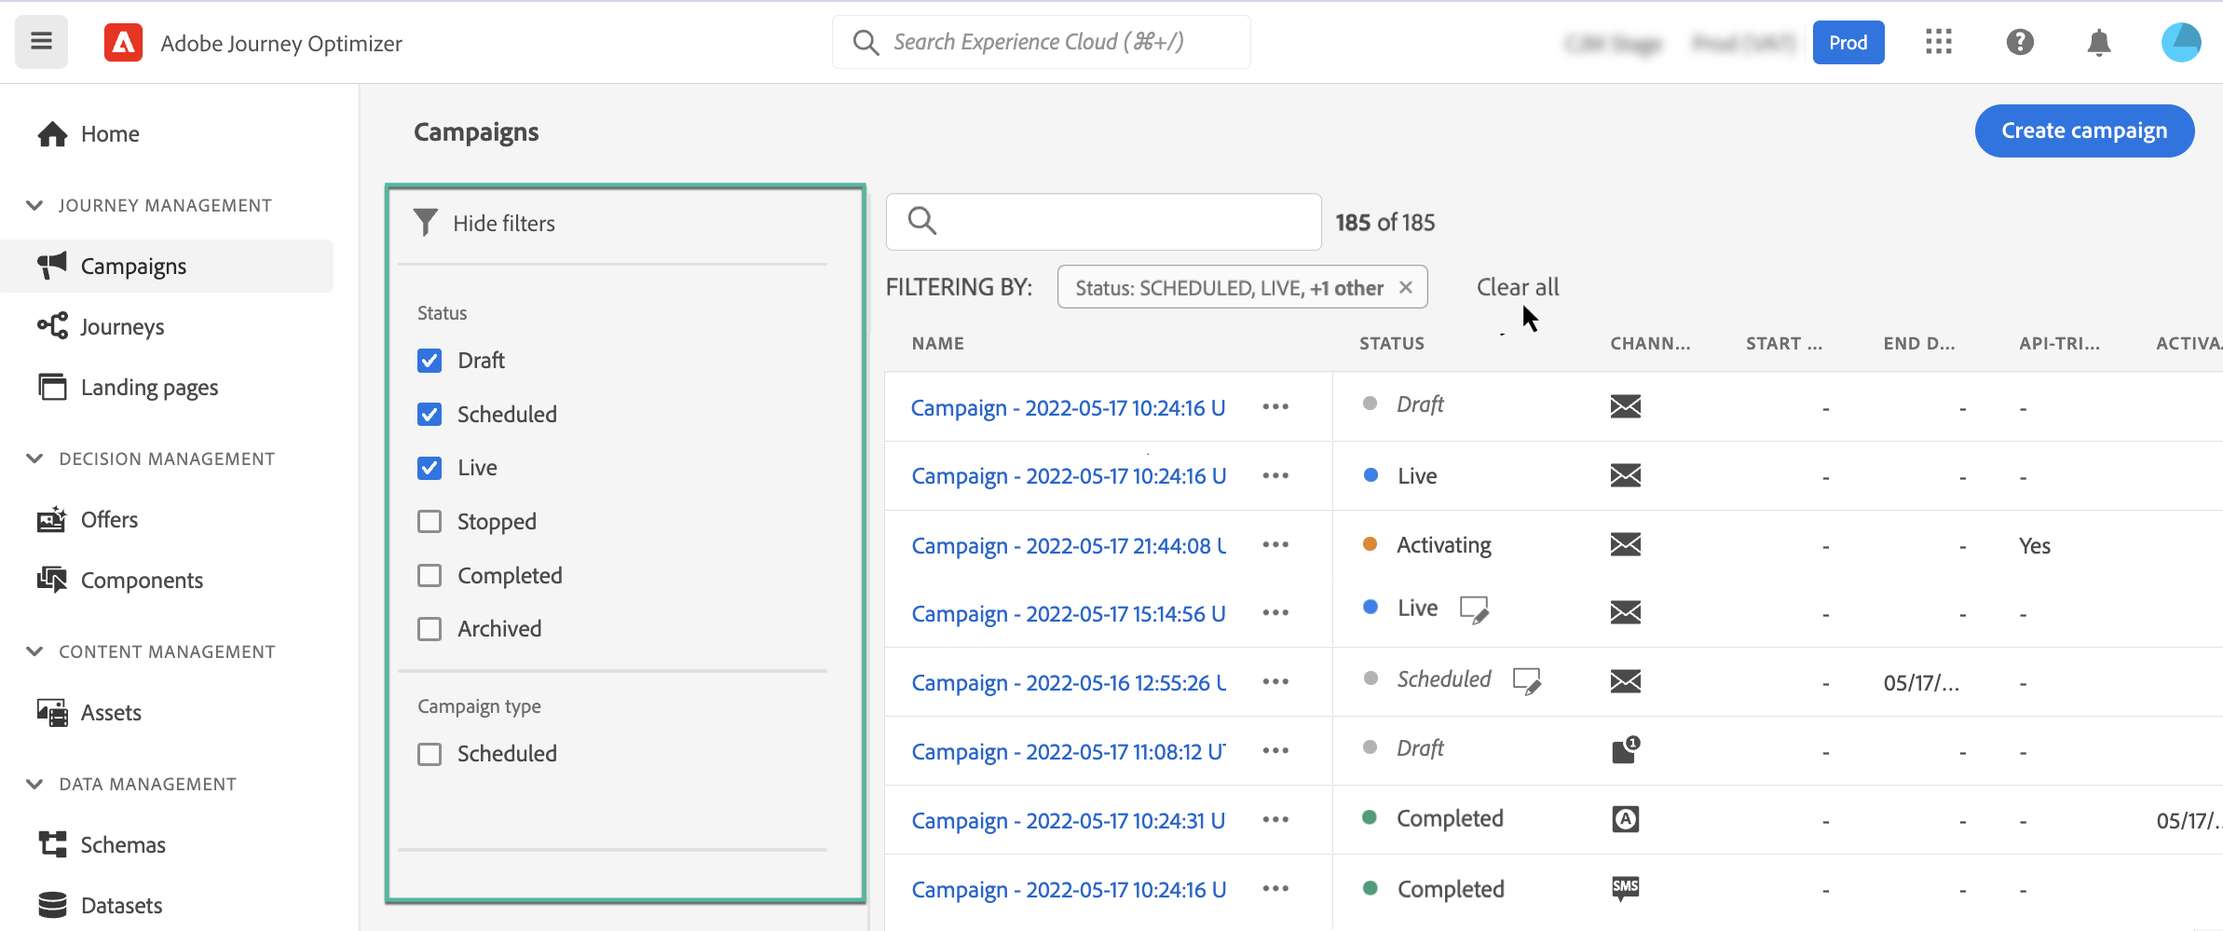
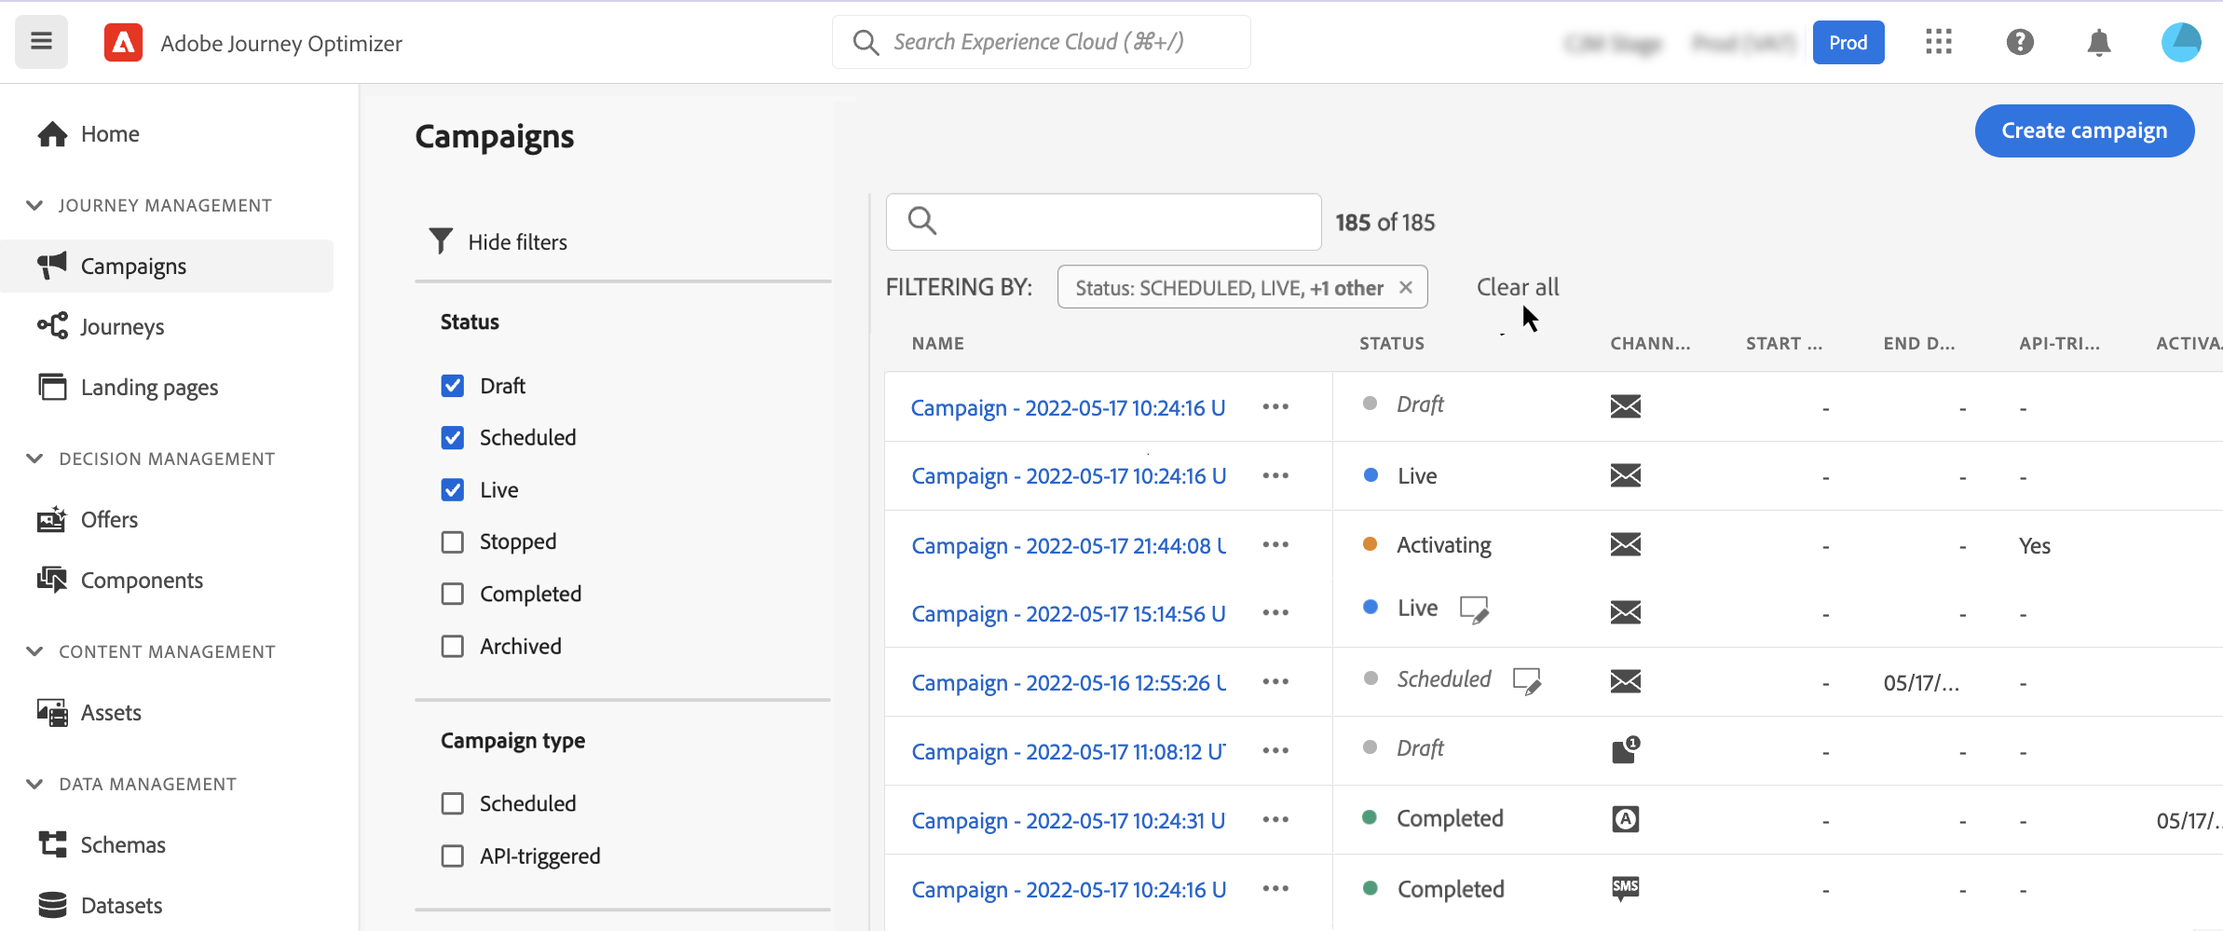
Tags section (#1262)
* DOCAC-8397

* update

* fix screens

* export as pdf reports

* Fvi 23.4 (#1253)

* Ajo fvi cc (#1248)

* update for DOCAC-8396

* fix for DOCAC-8387

* update for DOCAC-8401

* update for DOCAC-8401

* update for DOCAC-8380

* update for DOCAC-8378

* update for DOCAC-8379

* fix

* fix

* update for DOCAC-8393

* update for DOCAC-8479

* update for DOCAC-8381

* Fvi 23.2 dashboard (#1251)

* update

* fix

* update

* update

* fix

* fix

* fix

* update for DOCAC-8532

* fix

* update for DOCAC-8533

* fix

* fix

* fix

* fix

* fix

* Clarification on OD event data collection

* Update documentation-updates.md

draft

* fix

* comment journey dashboard

* web authoring gif

* update guardrails / IMS org mentions

* update jo guardrails

* Update release-notes.md

* update guardrails

* Update journey.md

* Update journey.md

* campaigns tag

* fix

* rn

* fix

* tags section

* fix

* update

* add gif

Changed region(s): [[0.1551, 0.1241, 0.4032, 0.7137], [0.1551, 0.3413, 0.4032, 0.993], [0.1861, 0.8999, 0.2791, 0.9309]]

diff --git a/help/using/start/user-interface.md b/help/using/start/user-interface.md
@@ -21,7 +21,6 @@ Components and capabilities available in the user interface depend on your [perm
 >
 >This documentation is frequently updated to reflect latest changes in the product user interface. However, some screenshots can slightly differ from your user interface.
 
-
 ## Left navigation {#left-nav}
 
 Browse the links on the left to access [!DNL Journey Optimizer] capabilities.
@@ -84,7 +83,6 @@ You can find below the full list of services and capabilities available in the l
 
 * **[!UICONTROL Alerts]** - The user interface allows you to view a history of received alerts based on metrics revealed by Adobe Experience Platform Observability Insights. The UI also allows you to view, enable, and disable available alert rules. [Learn more](https://experienceleague.adobe.com/docs/experience-platform/observability/alerts/overview.html){target="_blank"}
 
-
 ## In-product use cases {#in-product-uc}
 
 Leverage [!DNL Adobe Journey Optimizer] use cases from the Home page, and provide a few quick inputs to create a customer journey.
@@ -104,7 +102,6 @@ Click the **[!UICONTROL Begin]** button to start the use case.
 
 You can access executed use cases from the **[!UICONTROL View use case library]** button.
 
-
 ## Find help and support {#find-help}
 
 Access Adobe Journey Optimizer key help pages from the lower section of the home page.
@@ -112,10 +109,6 @@ Access Adobe Journey Optimizer key help pages from the lower section of the home
 Use the **Help** icon to access help pages, contact support and share feedback. You can search help articles and videos from the search field.
 
 ![](assets/ajo-help.png)
-
-## Supported browsers {#browsers}
-
-Adobe [!DNL Journey Optimizer] interface is designed to work optimally in the latest version of Google Chrome. You might have trouble using certain features on older versions or other browsers.
 
 ## Language preferences {#language-pref}
 
@@ -139,39 +132,3 @@ To change your language:
 * Then click the language displayed under your email address
 * Select your preferred language and click **Save**. You can select a second language in case the component you are using is not localized in your first language.
     ![](assets/select-language.png)
-
-## Search{#unified-search}
-
-Anywhere from Adobe Journey Optimizer interface, use the Unified Adobe Experience Cloud search capability on the center of the top bar to find assets, journeys, datasets, and more across your sandboxes. 
-
-Start entering content to display top results. Help articles about the entered keywords also show up in the results.
-
-![](assets/unified-search.png)
-
-Press **Enter** to access all results and filter by business object.
-
-![](assets/search-and-filter.png)
-
-## Filter lists{#filter-lists}
-
-In most of the lists, use the search bar to find specific items, and define filtering criteria.
-
-Filters can be accessed by clicking on the filter icon on the top left of a list. The filter menu allows you to filter the displayed elements according to different criteria. You can choose to display only elements of a certain type or status, the ones you created, or the ones modified in the last 30 days. Options differ depending on the context.
-
-In the list of journeys, you can filter journeys according to their status, type and version from the **[!UICONTROL Status and version filters]**. The type can be: **[!UICONTROL Unitary event]**, **[!UICONTROL Segment qualification]**, **[!UICONTROL Read segment]**, **[!UICONTROL Business event]** or **[!UICONTROL Burst]**. You can choose to display only journeys which use a specific event, field group or action from the **[!UICONTROL Activity filters]** and **[!UICONTROL Data filters]**. The **[!UICONTROL Publication filters]** let you select a publication date or a user. You can choose, for example, to display the latest versions of live journeys that were published yesterday. [Learn more](../building-journeys/using-the-journey-designer.md).
-
->[!NOTE]
->
->Note that columns displayed can be personalized using the configuration button on the top right of the lists. Personalization is saved for each user.
-
-Use the **[!UICONTROL Last update]** and **[!UICONTROL Last update by]** columns to check when happened the last update of your journeys and who saved it.
-
-![](assets/filter-journeys.png)
-
-In the Event, Data source and Action configuration panes, the **[!UICONTROL Used in]** field displays the number of journeys that use that particular event, field group or action. You can click the **[!UICONTROL View journeys]** button to display the list of corresponding journeys.
-
-![](assets/journey3bis.png)
-
-In the lists, you can perform basic actions on each element. For example, you can duplicate or delete an item.
-
-![](assets/journey4.png)

diff --git a/help/using/start/search-filter-categorize.md b/help/using/start/search-filter-categorize.md
@@ -1,0 +1,84 @@
+---
+solution: Journey Optimizer
+product: journey optimizer
+title: User Interface
+description: Learn more about Journey Optimizer User Interface
+feature: Overview
+topic: Content Management
+role: User
+level: Intermediate
+---
+
+# Search, filter, organize {#search-filter-organize}
+
+## Search{#unified-search}
+
+Anywhere from Adobe Journey Optimizer interface, use the Unified Adobe Experience Cloud search capability on the center of the top bar to find assets, journeys, datasets, and more across your sandboxes. 
+
+Start entering content to display top results. Help articles about the entered keywords also show up in the results.
+
+![](assets/unified-search.png)
+
+Press **Enter** to access all results and filter by business object.
+
+![](assets/search-and-filter.png)
+
+## Filter lists{#filter-lists}
+
+In most of the lists, use the search bar to find specific items, and define filtering criteria.
+
+Filters can be accessed by clicking on the filter icon on the top left of a list. The filter menu allows you to filter the displayed elements according to different criteria: You can choose to display only elements of a certain type or status, the ones you created, or the ones modified in the last 30 days. Options differ depending on the context.
+
+Additionally, you can use Unified tags to filter a list depending on the tags assigned to an object. For now, tags are available for journeys and campaigns. [Learn how to work with tags](#tags)
+
+>[!NOTE]
+>
+>Note that columns displayed can be personalized using the configuration button on the top right of the lists. Personalization is saved for each user.
+
+In the lists, you can perform basic actions on each element. For example, you can duplicate or delete an item.
+
+![](assets/journey4.png)
+
+## Work with Unified tags {#tags}
+
+With Adobe Experience Platform [Unified Tags](https://experienceleague.adobe.com/docs/experience-platform/administrative-tags/overview.html), you can easily classify your Journey Optimizer journeys and campaigns to improve search from the lists.
+
+>[!AVAILABILITY]
+>
+>Unified tags are currently in Beta. The documentation and the functionality are subject to change.
+
+## Add tags to an object
+
+The **Tags** field, in the [journey](../building-journeys/journey-gs.md#change-properties) or [campaign](../campaigns/create-campaign.md#create) properties, allows you to define tags for your object. You can either select an existing tag, or create a new one.
+
+Start typing the name of the desired tag and select it from the list. If it is not available, click **Create** to create a new one and add it. You can define as many tags as needed.
+
+![](assets/tags1.png)
+
+The list of tags defined is displayed below the **Tags** field. 
+
+>[!NOTE]
+>
+> Tags are case in-sensitive
+> 
+> If you duplicate or create a new version of a journey or campaign, tags are preserved.
+
+## Filter on tags
+
+The journeys and campaigns lists display a dedicated column so you can easily visualize your tags. 
+
+A filter is also available to only display journeys or campaigns with certain tags.
+
+![](assets/tags2.png)
+
+You can add or remove tags from any type of journey or campaign (live, draft, etc). To do this, click the **More actions** icon next to the object, and select **Edit tags**. 
+
+![](assets/tags3.png)
+
+## Manage tags
+
+Administrators can delete tags and organize them by categories using the **Tags** menu, under **ADMINISTRATION**. Learn more on tags management in the [Unified Tags documentation](https://experienceleague.adobe.com/docs/experience-platform/administrative-tags/ui/managing-tags.html). 
+
+>[!NOTE]
+>
+> Tags created directly from the **[!UICONTROL Tags]** field in Journey Optimizer are automatically added to the built-in "Uncategorized" category.

diff --git a/help/using/building-journeys/journey-gs.md b/help/using/building-journeys/journey-gs.md
@@ -36,10 +36,6 @@ In order to send messages with journeys, the following configurations are requir
 
 In the JOURNEY MANAGEMENT menu section, click **[!UICONTROL Journeys]**. Two tabs are available:
 
-**Browse**: this tab displays the list of existing journeys. You can search for journeys, use filters and perform basic actions on each element. For example, you can duplicate or delete an item. For more information, refer to [this section](../start/user-interface.md#filter-lists).
-
-![](assets/journeys-browse.png)  
-
 **Overview**: this tab displays a dashboard with key metrics related to your journeys:
 
 * **Profiles processed**: total number of profiles processed over the last 24 hours
@@ -52,6 +48,22 @@ In the JOURNEY MANAGEMENT menu section, click **[!UICONTROL Journeys]**. Two tab
 >This dashboard takes into account the journeys with traffic over the last 24 hours. Only the journeys you have access to are displayed. 
 
 ![](assets/journeys-dashboard.png)  
+
+**Browse**: this tab displays the list of existing journeys. You can search for journeys, use filters and perform basic actions on each element. For example, you can duplicate or delete an item. For more information, refer to [this section](../start/user-interface.md#filter-lists).
+
+![](assets/journeys-browse.png)  
+
+In the list of journeys, you can filter journeys according to their status, type and version from the **[!UICONTROL Status and version filters]**. The type can be: **[!UICONTROL Unitary event]**, **[!UICONTROL Segment qualification]**, **[!UICONTROL Read segment]**, **[!UICONTROL Business event]** or **[!UICONTROL Burst]**.
+
+You can choose to display only journeys which use a specific event, field group or action from the **[!UICONTROL Activity filters]** and **[!UICONTROL Data filters]**. Additionally, the **[!UICONTROL Publication filters]** let you select a publication date or a user. You can choose, for example, to display the latest versions of live journeys that were published yesterday. [Learn more](../building-journeys/using-the-journey-designer.md).
+
+![](assets/filter-journeys.png)
+
+Use the **[!UICONTROL Last update]** and **[!UICONTROL Last update by]** columns to check when happened the last update of your journeys and who saved it.
+
+In the Event, Data source and Action configuration panes, the **[!UICONTROL Used in]** field displays the number of journeys that use that particular event, field group or action. You can click the **[!UICONTROL View journeys]** button to display the list of corresponding journeys.
+
+![](assets/journey3bis.png)
 
 ## Build your journey{#jo-build}
 
@@ -95,7 +107,7 @@ Here are the main steps to send messages through journeys:
 
 Click on the pencil icon, in the top right to access the journey's properties.
 
-You can change the name of the journey, add a description, allow re-entrance, choose start and end dates and, as an Admin user, define a **[!UICONTROL Timeout and error]** duration. 
+You can change the name of the journey, add a description, allow re-entrance, choose start and end dates and, as an Admin user, define a **[!UICONTROL Timeout and error]** duration. You can also assign Adobe Experience Platform Unified Tags to your journey. This allows you to easily classify them and improve search from the campaigns list. [Learn how to work with tags](../start/search-filter-categorize.md#tags)
 
 For live journeys, this screen displays the publication date and the name of the user who published the journey.
 

diff --git a/help/using/rn/release-notes.md b/help/using/rn/release-notes.md
@@ -15,6 +15,24 @@ Previous release notes are available in [this page](release-notes-2022.md). You 
 
 ![Newsletter](../assets/do-not-localize/nl-icon.png) Sign up for the [Adobe Journey Optimizer quarterly newsletter](https://www.adobe.com/subscription/Adobe_Journey_Optimizer_NL.html){target="_blank"} today, and receive the latest product updates, exciting stories, use cases, tips and more delivered directly to your inbox every quarter.
 
+## May 2023 improvements {#may-improvements}
+
+<table>
+<thead>
+<tr>
+<th><strong>Use Tags in your campaigns</strong><br/></th>
+</tr>
+</thead>
+<tbody>
+<tr>
+<td>
+<p>You can now assign Adobe Experience Platform Unified Tags to your campaigns. This allows you to easily classify them and improve search from the campaigns list. Note that Unified tags feature is currently in beta.
+<img src="assets/do-not-localize/campaigns-tag.gif"/>
+<p>For more information, refer to the <a href="../start/search-filter-categorize.md#tags">detailed documentation</a>.</p>
+</td>
+</tr>
+</tbody>
+</table>
 
 ## April 2023 release notes {#apr-rn-2023}
 
@@ -40,7 +58,6 @@ Previous release notes are available in [this page](release-notes-2022.md). You 
 </tbody>
 </table>
 
-
 <table>
 <thead>
 <tr>
@@ -58,6 +75,7 @@ Previous release notes are available in [this page](release-notes-2022.md). You 
 </tbody>
 </table>
 
+<!--
 <table>
 <thead>
 <tr>
@@ -167,13 +185,11 @@ Previous release notes are available in [this page](release-notes-2022.md). You 
 <tr>
 <td>
 <p>As a Journey Optimizer practitioner, you can now organize your business objects using tags. Tags are a quick and easy way of classifying objects to improve search. This feature is currently in beta and only available for Journeys.</p>
-<p>For more information, refer to the <a href="../building-journeys/tags.md">detailed documentation</a>.</p>
+<p>For more information, refer to the <a href="../start/search-filter-categorize.md#tags">detailed documentation</a>.</p>
 </td>
 </tr>
 </tbody>
 </table>
-
-
 
 ### Improvements {#mar-2023-improvements}
 

diff --git a/help/using/campaigns/create-campaign.md b/help/using/campaigns/create-campaign.md
@@ -59,6 +59,8 @@ To create a new campaign, access the **[!UICONTROL Campaigns]** menu, then click
 
     <!--To test the content of your message, toggle the **[!UICONTROL Content experiment]** option on. This allows you to test multiple variables of a delivery on populations samples, in order to define which treatment has the biggest impact on the targeted population.[Learn more about content experiment](../campaigns/content-experiment.md).-->
 
+1. The **Tags** field allows you to assign Adobe Experience Platform Unified Tags to your campaign. This allows you to easily classify them and improve search from the campaigns list. [Learn how to work with tags](../start/search-filter-categorize.md#tags) 
+
 1. To assign custom or core data usage labels to the campaign, click the **[!UICONTROL Manage access]** button. [Learn more on Object Level Access Control (OLA)](../administration/object-based-access.md)
     
 ## Create the message and configure tracking {#content}
@@ -122,9 +124,9 @@ In the **[!UICONTROL Identity namespace]** field, choose the namespace to use in
 
 ![](assets/create-campaign-namespace.png)
 
->[!NOTE]
->
->Individuals belonging to a segment that does not have the selected identity (namespace) among their different identities will not be targeted by the campaign.
+    >[!NOTE]
+    >
+    >Individuals belonging to a segment that does not have the selected identity (namespace) among their different identities will not be targeted by the campaign.
 
 <!--If you are are creating an API-triggered campaign, the **[!UICONTROL cURL request]** section allows you to retrieve the **[!UICONTROL Campaign ID]** to use in the API call. [Learn more](api-triggered-campaigns.md)-->
 

diff --git a/help/using/offers/offer-library/creating-decision-rules.md b/help/using/offers/offer-library/creating-decision-rules.md
@@ -35,7 +35,7 @@ To create a decision rule, follow these steps:
 
     >[!NOTE]
     >
-    >The Segment Builder provided to create decision rules presents some specificities compared to the one used with the **[!UICONTROL Audience Destinations]** service. For example, the **[!UICONTROL Segments]** tab is not available for use. However, the global process described in the [Segment Builder](../../segment/about-segments.md) documentation is still valid to build offers decisions rules. Learn more in the [Adobe Experience Platform Segmentation Service documentation](https://experienceleague.adobe.com/docs/experience-platform/segmentation/ui/segment-builder.html).
+    >The Segment Builder provided to create decision rules presents some specificities compared to the one used with the **[!UICONTROL Segmentation]** service. For example, the **[!UICONTROL Segments]** tab is not available for use. However, the global process described in the [Segment Builder](../../segment/about-segments.md) documentation is still valid to build offers decisions rules. Learn more in the [Adobe Experience Platform Segmentation Service documentation](https://experienceleague.adobe.com/docs/experience-platform/segmentation/ui/segment-builder.html).
 
 1. As you are adding and configuring new fields in the workspace, the **[!UICONTROL Segment properties]** pane displays information on the estimated profiles belonging to the segment. Click **[!UICONTROL Refresh estimate]** to update data.
 

diff --git a/help/TOC.md b/help/TOC.md
@@ -24,6 +24,7 @@ solution: Journey Optimizer
     + [Get started as an Administrator](using/start/path/administrator.md)
     + [Get started as a Developer](using/start/path/developer.md)
   + [User interface](using/start/user-interface.md)
+  + [Search, filter, categorize](using/start/search-filter-categorize.md)
   + [Accessibility](using/start/accessibility.md)
   + [Integrations](using/start/ajo-integrations.md)
   + [Guardrails](using/start/guardrails.md)
@@ -41,7 +42,6 @@ solution: Journey Optimizer
     + [Copy a journey to another sandbox](using/building-journeys/copy-to-sandbox.md)
     + [Troubleshoot your journey](using/building-journeys/troubleshooting.md)
     + [Integrate with Intelligent Services](using/building-journeys/ai-services-overview.md) 
-    + [Manage tags in journeys](using/building-journeys/tags.md) 
   + Activities {#about-journey-building}
     + [Get started with journey activities](using/building-journeys/about-journey-activities.md)
     + [General events](using/building-journeys/general-events.md)

diff --git a/help/using/campaigns/modify-stop-campaign.md b/help/using/campaigns/modify-stop-campaign.md
@@ -20,11 +20,11 @@ Additionally, you can duplicate live campaigns (executed once or with a recurrin
 
 Campaigns are accessible from the **[!UICONTROL Campaigns]** menu.
 
-By default, the list shows all campaigns with the **[!UICONTROL Draft]**, **[!UICONTROL Scheduled]**, and **[!UICONTROL Live]** statuses.
-
-To display stopped, completed, and archived campaigns, you need to clear the filter.
+By default, the list shows all campaigns with the **[!UICONTROL Draft]**, **[!UICONTROL Scheduled]**, and **[!UICONTROL Live]** statuses. To display stopped, completed, and archived campaigns, you need to clear the filter.
 
 ![](assets/create-campaign-list.png)
+
+Additionally, you can filter the list based on the campaign type and channel, or the tags that have been assigned to the campaigns when creating them. [Learn how to assign tags to a campaign](create-campaign.md#create)
 
 ## Campaign statuses {#statuses}
 

diff --git a/help/using/start/guardrails.md b/help/using/start/guardrails.md
@@ -17,6 +17,10 @@ You also need to be aware of [Guardrails for Real-time Customer Profile data bef
 
 You will find below additional guardrails and limitations when using [!DNL Adobe Journey Optimizer].
 
+## Supported browsers {#browsers}
+
+Adobe [!DNL Journey Optimizer] interface is designed to work optimally in the latest version of Google Chrome. You might have trouble using certain features on older versions or other browsers.
+
 ## Message guardrails {#message-guardrails}
 
 * You cannot add attachments to an email with [!DNL Journey Optimizer].
